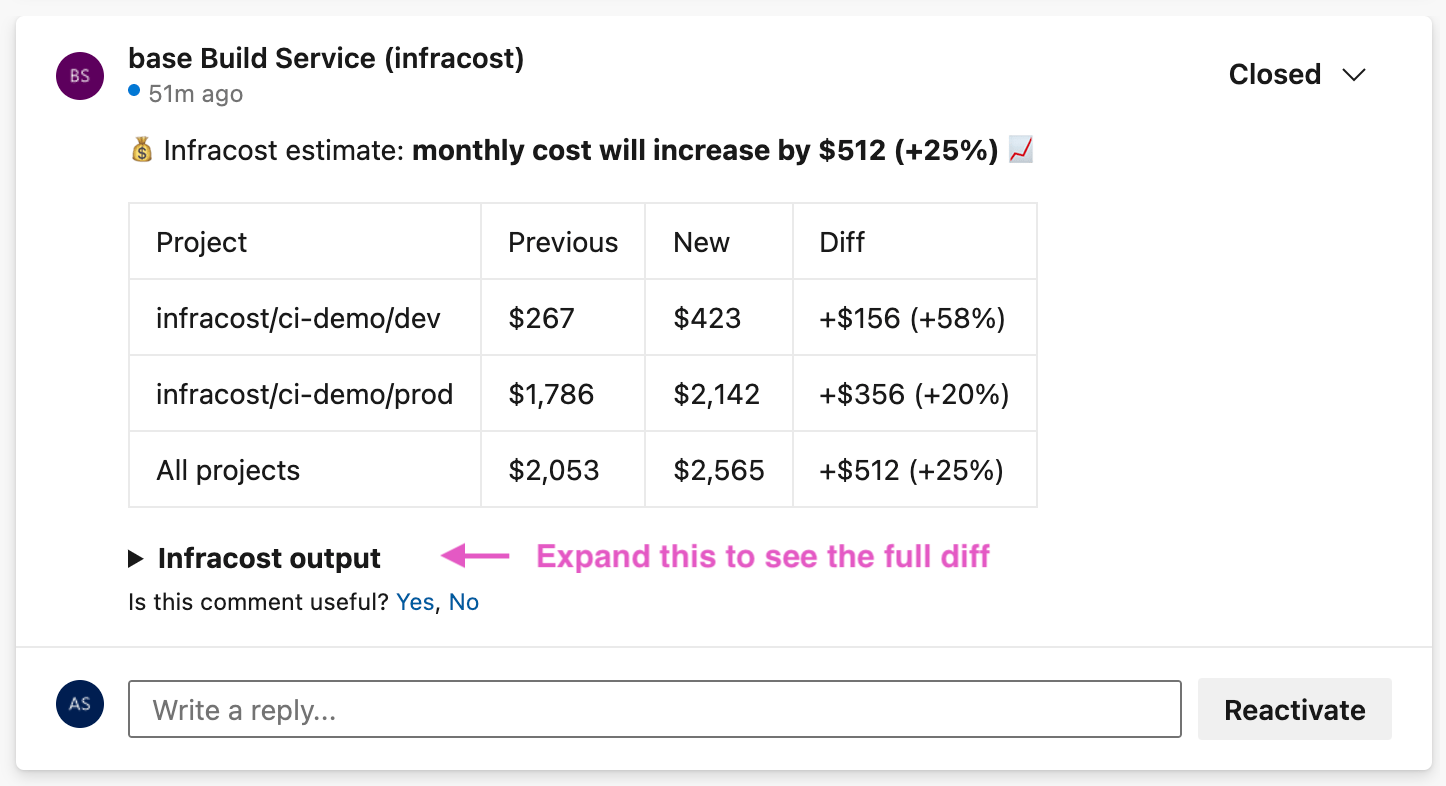
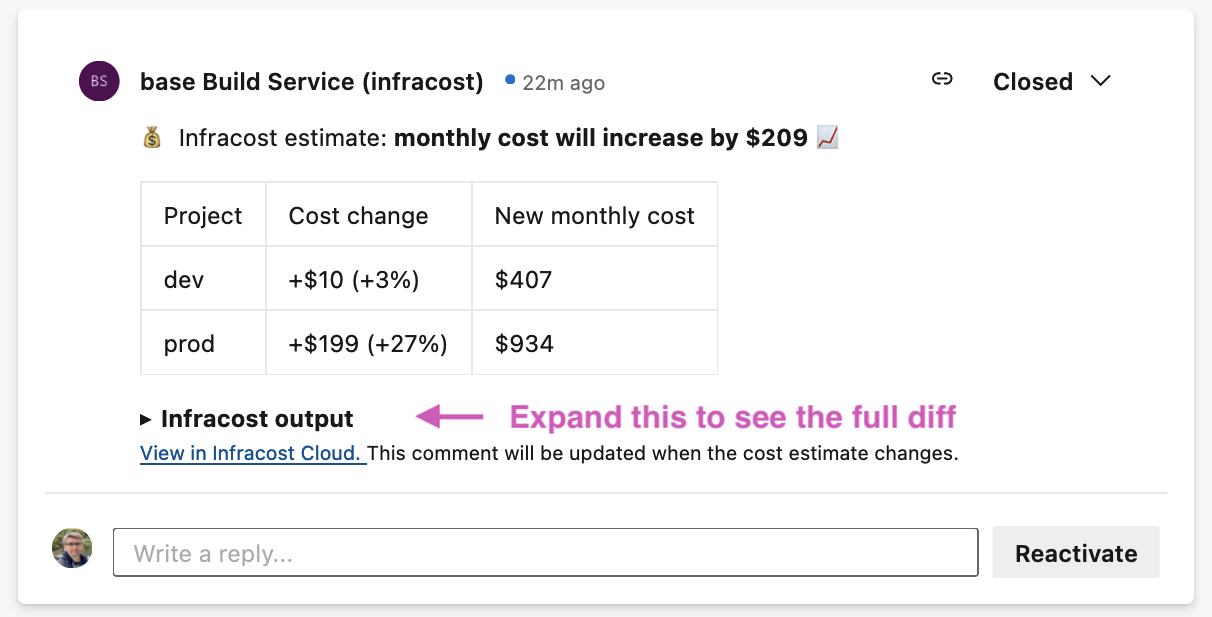
docs: update screenshot (#80)
* docs: update screenshot

* docs: Update Azure PR comment screenshots

---------

diff --git a/README.md b/README.md
@@ -147,9 +147,11 @@ The Azure Pipelines Infracost tasks can be used with either Azure Repos (only gi
 
     <img src=".azure/assets/azure-pr-comment.png" alt="Example pull request" width="90%" />
 
-6. [Enable Infracost Cloud](https://dashboard.infracost.io/) and trigger your CI/CD pipeline again. This causes the CLI to send its JSON output to your dashboard; the JSON does not contain any cloud credentials or secrets, see the [FAQ](https://infracost.io/docs/faq/) for more information. This is our SaaS product that builds on top of Infracost open source and enables team leads, managers and FinOps practitioners to see all cost estimates from a central place so they can help guide the team. To learn more, see [our docs](https://www.infracost.io/docs/infracost_cloud/get_started/).
+6. In [Infracost Cloud](https://dashboard.infracost.io), go to Org Settings and enable the dashboard, then trigger your CI/CD pipeline again. This causes the CLI to send its JSON output to your dashboard; the JSON does not contain any cloud credentials or secrets, see the [FAQ](https://infracost.io/docs/faq/) for more information.
 
-    <img src=".azure/assets/infracost-cloud-dashboard.png" alt="Infracost Cloud gives team leads, managers and FinOps practitioners visibility across all cost estimates in CI/CD" width="90%" />
+    This is our SaaS product that builds on top of Infracost open source. It enables team leads, managers and FinOps practitioners to setup [tagging policies](https://www.infracost.io/docs/infracost_cloud/tagging_policies/), [guardrails](https://www.infracost.io/docs/infracost_cloud/guardrails/) and [best practices](https://www.infracost.io/docs/infracost_cloud/cost_policies/) to help guide the team. For example, you can check for required tag keys/values, or suggest switching AWS GP2 volumes to GP3 as they are more performant and cheaper.
+
+    <img src=".azure/assets/infracost-cloud-dashboard.png" alt="Infracost Cloud gives team leads, managers and FinOps practitioners visibility across all cost estimates in CI/CD" width="58%" /><img src=".github/assets/pull-request-tags.png" alt="Communicate and enforce FinOps tags in pull requests" width="42%" />
 
 If there are issues, you can enable the 'Enable system diagnostics' check box when running the pipeline manually or for more options see [this page](https://docs.microsoft.com/en-us/azure/devops/pipelines/troubleshooting/review-logs).
 
@@ -259,9 +261,11 @@ If there are issues, you can enable the 'Enable system diagnostics' check box wh
 
     <img src=".azure/assets/pr-comment.png" alt="Example pull request" width="70%" />
 
-5. [Enable Infracost Cloud](https://dashboard.infracost.io/) and trigger your CI/CD pipeline again. This causes the CLI to send its JSON output to your dashboard; the JSON does not contain any cloud credentials or secrets, see the [FAQ](https://infracost.io/docs/faq/) for more information. This is our SaaS product that builds on top of Infracost open source and enables team leads, managers and FinOps practitioners to see all cost estimates from a central place so they can help guide the team. To learn more, see [our docs](https://www.infracost.io/docs/infracost_cloud/get_started/).
+5. In [Infracost Cloud](https://dashboard.infracost.io), go to Org Settings and enable the dashboard, then trigger your CI/CD pipeline again. This causes the CLI to send its JSON output to your dashboard; the JSON does not contain any cloud credentials or secrets, see the [FAQ](https://infracost.io/docs/faq/) for more information.
 
-    <img src=".azure/assets/infracost-cloud-dashboard.png" alt="Infracost Cloud gives team leads, managers and FinOps practitioners visibility across all cost estimates in CI/CD" width="90%" />
+    This is our SaaS product that builds on top of Infracost open source. It enables team leads, managers and FinOps practitioners to setup [tagging policies](https://www.infracost.io/docs/infracost_cloud/tagging_policies/), [guardrails](https://www.infracost.io/docs/infracost_cloud/guardrails/) and [best practices](https://www.infracost.io/docs/infracost_cloud/cost_policies/) to help guide the team. For example, you can check for required tag keys/values, or suggest switching AWS GP2 volumes to GP3 as they are more performant and cheaper.
+
+    <img src=".azure/assets/infracost-cloud-dashboard.png" alt="Infracost Cloud gives team leads, managers and FinOps practitioners visibility across all cost estimates in CI/CD" width="58%" /><img src=".github/assets/pull-request-tags.png" alt="Communicate and enforce FinOps tags in pull requests" width="42%" />
 
 If there are issues, you can enable the 'Enable system diagnostics' check box when running the pipeline manually or for more options see [this page](https://docs.microsoft.com/en-us/azure/devops/pipelines/troubleshooting/review-logs).
 
@@ -297,17 +301,9 @@ The [examples](https://github.com/infracost/infracost-azure-devops/tree/master/e
 
 For advanced use cases where the estimate needs to be generated from Terraform plan JSON files, see the [plan JSON examples here](https://github.com/infracost/infracost-azure-devops/tree/master/examples#plan-json-examples).
 
-### Cost policies
+## Task
 
-Infracost policies enable centralized teams, who are often helping others with cloud costs, to provide advice before resources are launched, setup guardrails, and prevent human error. Follow [our docs](https://www.infracost.io/docs/features/cost_policies/) to use Infracost's native support for Open Policy Agent (OPA) policies. This enables you to see passing/failing policies in Infracost pull request comments (shown below) without having to install anything else.
-
-![](https://github.com/infracost/infracost-azure-devops/blob/master/.github/assets/policy-passing-github.png)
-
-If you use HashiCorp Sentinel, follow [our example](https://github.com/infracost/infracost-azure-devops/tree/master/examples/sentinel) to output the policy pass/fail results into CI/CD logs.
-
-## Tasks
-
-We recommend you use the above quick start guide and examples, which combine the following individual actions.
+We recommend you use the above quick start guide and examples, which uses the following task.
 
 ### InfracostSetup
 
